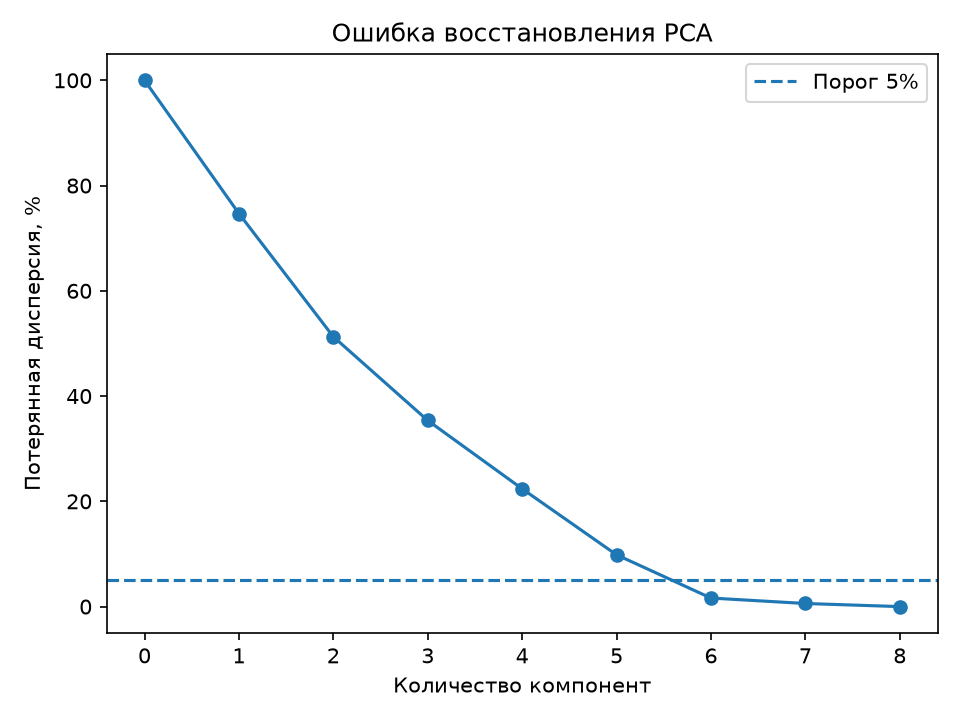
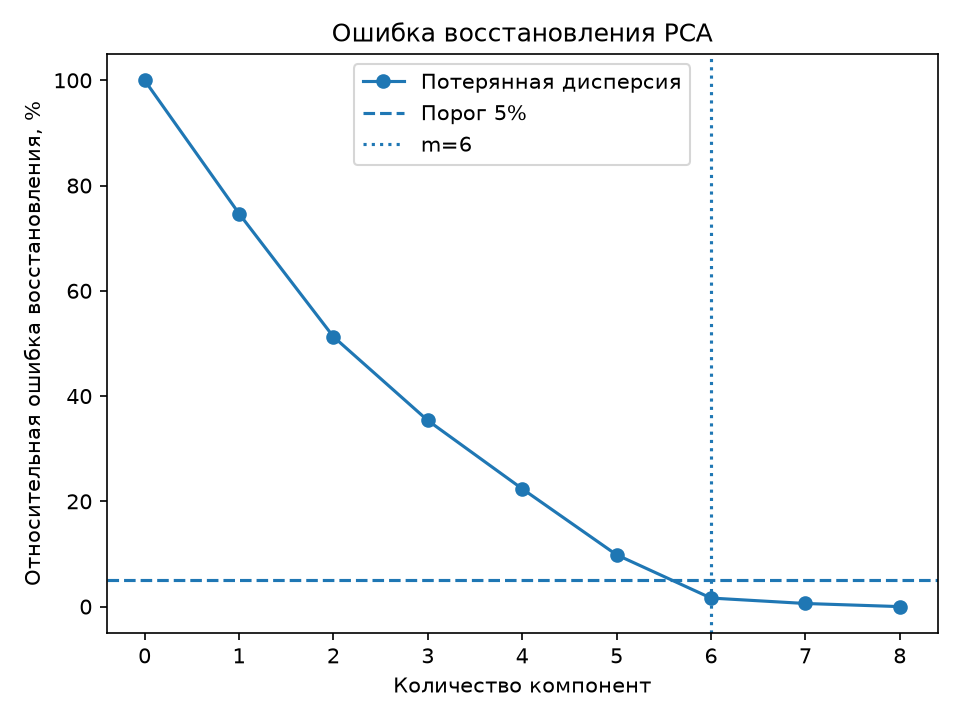
update files and code

diff --git a/students/astapenkova-av/lab4/source/laba-4.py b/students/astapenkova-av/lab4/source/laba-4.py
@@ -13,6 +13,7 @@ from sklearn.preprocessing import StandardScaler
 from pathlib import Path
 
 def effective_dimension(lam, eps=0.05):
+    lam = np.asarray(lam, dtype=float)
     total = np.sum(lam)
 
     for m in range(1, len(lam) + 1):
@@ -20,6 +21,7 @@ def effective_dimension(lam, eps=0.05):
 
         if Em <= eps:
             return m
+    return len(lam)
 
 def PCA(X, eps=0.05):
     mean = np.mean(X, axis=0)
@@ -27,7 +29,7 @@ def PCA(X, eps=0.05):
 
     _ , sigma, Ut = np.linalg.svd(F, full_matrices=False)
     U = Ut.T
-    lam = sigma ** 2
+    lam = sigma ** 2 
     explain_variance_ratio = lam / np.sum(lam)
     comulative_evr = np.cumsum(explain_variance_ratio)
     m = effective_dimension(lam, eps)
@@ -46,7 +48,6 @@ def ols_svd(X, y):
     w = Ut.T @ beta
     return w, float(y_mean - x_mean @ w)
 
-# w_tau = U diag(sigma/(sigma^2+tau)) V^T yс
 def ridge_svd_from_decomposition(V, sigma, Ut, yc, tau):
     beta = sigma / (sigma**2 + tau) * (V.T @ yc)
     return Ut.T @ beta
@@ -59,11 +60,6 @@ def ridge_svd(X, y, tau):
     V, sigma, Ut = np.linalg.svd(F, full_matrices=False)
     w = ridge_svd_from_decomposition(V, sigma, Ut, yc, tau)
     return w, float(y_mean - x_mean @ w)
-
-def save_current(out_dir, name):
-    plt.tight_layout()
-    plt.savefig(out_dir / f"{name}.png", dpi=160, bbox_inches="tight")
-    plt.close()
 
 def rmse(y, prediction):
     return np.sqrt(mean_squared_error(y, prediction))
@@ -90,30 +86,57 @@ def main():
     # PCA через SVD и эталонная реализация
     mean, U, sigma, explain_variance_ratio, comulative_evr, m = PCA(X_train)
     F = X_train - mean
-    G = F @ U[:, :m]
-    F_hat = G @ U[:, :m].T
+    U_m = U[:, :m]
+    G = F @ U_m
+    F_hat = G @ U_m.T
 
-    pca_ref = SklearnPCA(n_components=0.95, svd_solver="full")
-    G_ref = pca_ref.fit_transform(X_train)
-    F_ref = pca_ref.inverse_transform(G_ref)
+    lam = sigma ** 2
+    E_direct = np.linalg.norm(F - F_hat, "fro") ** 2 / np.linalg.norm(F, "fro") ** 2
+    E_svd = np.sum(lam[m:]) / np.sum(lam)
     print("Эффективная размерность:", m)
-    print("Размерность sklearn:", pca_ref.n_components_)
-    print("Восстановление совпадает:", np.allclose(F_hat + mean, F_ref))
+    print("Сохранённая дисперсия, %:", round(comulative_evr[m - 1] * 100, 4))
+    print("U^T U = I:", np.allclose(U_m.T @ U_m, np.eye(m)))
+    print("G^T G = diag(lambda):", np.allclose(G.T @ G, np.diag(lam[:m])))
+    print("Теоретическая ошибка восстановления совпадает:", np.allclose(E_direct, E_svd))
+
+    pca_ref = SklearnPCA(n_components=m, svd_solver="full")
+    G_ref = pca_ref.fit_transform(X_train)
+    X_ref = pca_ref.inverse_transform(G_ref)
+
+    print("Сингулярные значения совпадают:", np.allclose(
+        sigma[:m], pca_ref.singular_values_
+    ))
+    print("Доли дисперсии совпадают:", np.allclose(
+        explain_variance_ratio[:m], pca_ref.explained_variance_ratio_
+    ))
+    print("Собственные значения ковариации совпадают:", np.allclose(
+        lam[:m] / (len(X_train) - 1), pca_ref.explained_variance_
+    ))
+    P_own = U_m @ U_m.T
+    P_ref = pca_ref.components_.T @ pca_ref.components_
+    print("Подпространства совпадают:", np.allclose(P_own, P_ref))
+    print("Восстановление совпадает:", np.allclose(F_hat + mean, X_ref))
+
+    pca_ref_95 = SklearnPCA(n_components=0.95, svd_solver="full").fit(X_train)
+    print("Размерность sklearn при пороге 95%:", pca_ref_95.n_components_)
 
     indices = np.arange(1, len(sigma) + 1)
 
-    plt.plot(indices, sigma, marker="o")
+    plt.plot(indices, sigma, marker="o", label="Сингулярные значения")  
     plt.title("Сингулярные значения")
     plt.xlabel("Номер компоненты")
+    plt.ylabel("Сингулярное значение") 
+    plt.legend()  
     save("01_singular_values")
 
-    plt.bar(indices, explain_variance_ratio * 100)
+    plt.bar(indices, explain_variance_ratio * 100, label="Доля дисперсии") 
     plt.title("Дисперсия каждой компоненты")
     plt.xlabel("Номер компоненты")
     plt.ylabel("Доля дисперсии, %")
+    plt.legend()  
     save("02_explained_variance")
 
-    plt.plot(indices, comulative_evr * 100, marker="o")
+    plt.plot(indices, comulative_evr * 100, marker="o", label="Накопленная дисперсия")  
     plt.axhline(95, linestyle="--", label="95%")
     plt.axvline(m, linestyle=":", label=f"m={m}")
     plt.title("Накопленная объяснённая дисперсия")
@@ -123,37 +146,31 @@ def main():
     save("03_cumulative_variance")
 
     errors = 1 - np.r_[0, comulative_evr]
-    plt.plot(np.arange(len(errors)), errors * 100, marker="o")
+    plt.plot(np.arange(len(errors)), errors * 100, marker="o", label="Потерянная дисперсия") 
     plt.axhline(5, linestyle="--", label="Порог 5%")
+    plt.axvline(m, linestyle=":", label=f"m={m}")  
     plt.title("Ошибка восстановления PCA")
     plt.xlabel("Количество компонент")
-    plt.ylabel("Потерянная дисперсия, %")
+    plt.ylabel("Относительная ошибка восстановления, %")  
     plt.legend()
     save("04_reconstruction_error")
 
-    scores = F @ U
-    plt.scatter(scores[:, 0], scores[:, 1], c=y_train, s=5, alpha=0.3)
-    plt.colorbar(label="Стоимость жилья")
-    plt.xlabel("PC1")
-    plt.ylabel("PC2")
-    plt.title("Данные в пространстве первых двух компонент")
-    save("05_pc1_pc2")
-
-    plt.imshow(U, aspect="auto", vmin=-1, vmax=1)
+    im = plt.imshow(U, aspect="auto", vmin=-1, vmax=1)
     plt.xticks(range(len(names)), [f"PC{i}" for i in indices])
     plt.yticks(range(len(names)), names)
-    plt.colorbar(label="Вес исходного признака")
+    plt.xlabel("Главная компонента")  
+    plt.ylabel("Исходный признак") 
+    plt.colorbar(im, label="Вес исходного признака")  
     plt.title("Коэффициенты главных компонент")
     save("06_pca_weights")
 
-    # PCA + линейная регрессия: динамика качества при разных m
     pcr_train, pcr_test = [], []
     for k in indices:
         Z_train = F @ U[:, :k]
         Z_test = (X_test - mean) @ U[:, :k]
-        reg = LinearRegression().fit(Z_train, y_train)
-        pcr_train.append(rmse(y_train, reg.predict(Z_train)))
-        pcr_test.append(rmse(y_test, reg.predict(Z_test)))
+        w_k, b_k = ols_svd(Z_train, y_train)
+        pcr_train.append(rmse(y_train, Z_train @ w_k + b_k))
+        pcr_test.append(rmse(y_test, Z_test @ w_k + b_k))
 
     plt.plot(indices, pcr_train, marker="o", label="Обучение")
     plt.plot(indices, pcr_test, marker="o", label="Тест")
@@ -164,7 +181,6 @@ def main():
     plt.legend()
     save("07_pcr_rmse")
 
-    # Обычный МНК и Ridge через одно SVD
     y_mean = y_train.mean()
     V, s, Ut = np.linalg.svd(F, full_matrices=False)
     rhs = V.T @ (y_train - y_mean)
@@ -172,10 +188,9 @@ def main():
     def weights(tau):
         return Ut.T @ ((s / (s**2 + tau)) * rhs)
 
-    w_ols = weights(0)
     taus = np.logspace(-2, 5, 30)
     ridge_weights = np.array([weights(tau) for tau in taus])
-    tau = 1000.0  # Пример; не подобранный оптимум
+    tau = 1000.0 
     w_ridge = weights(tau)
 
     plt.figure(figsize=(9, 5))
@@ -188,7 +203,6 @@ def main():
     plt.legend(ncol=2, fontsize=8)
     save("08_ridge_weights")
 
-    # Lasso: коэффициенты и отбор признаков
     alphas = np.logspace(-4, 0, 30)
     lasso_weights = np.array([
         Lasso(alpha=a, max_iter=20000).fit(X_train, y_train).coef_
@@ -205,30 +219,37 @@ def main():
     plt.legend(ncol=2, fontsize=8)
     save("09_lasso_weights")
 
-    plt.plot(alphas, np.count_nonzero(lasso_weights, axis=1), marker="o")
-    plt.xscale("log")
+    plt.plot(alphas, np.count_nonzero(lasso_weights, axis=1), marker="o", label="Ненулевые коэффициенты") 
     plt.xlabel("Параметр Lasso (alpha)")
     plt.ylabel("Число ненулевых коэффициентов")
     plt.title("Отбор признаков Lasso")
+    plt.legend() 
     save("10_lasso_feature_selection")
 
-    # Финальное сравнение на тестовых данных (параметры фиксированы заранее)
+    w_ols, b_ols = ols_svd(X_train, y_train)
+    w_pcr, b_pcr = ols_svd(G, y_train)
     lasso = Lasso(alpha=0.01, max_iter=20000).fit(X_train, y_train)
-    pcr = LinearRegression().fit(G, y_train)
     results = {
-        "МНК SVD": X_test @ w_ols + y_mean - mean @ w_ols,
+        "МНК SVD": X_test @ w_ols + b_ols,
         "Ridge SVD": X_test @ w_ridge + y_mean - mean @ w_ridge,
         "Lasso": lasso.predict(X_test),
-        "PCA + МНК": pcr.predict((X_test - mean) @ U[:, :m]),
+        "PCA + МНК": (X_test - mean) @ U_m @ w_pcr + b_pcr,
     }
-    scores = {name: rmse(y_test, pred) for name, pred in results.items()}
-    for name, error in scores.items():
+    model_scores = {name: rmse(y_test, pred) for name, pred in results.items()}
+    for name, error in model_scores.items():
         print(f"{name}: RMSE = {error:.4f}")
 
-    plt.bar(scores.keys(), scores.values())
+    bars = plt.bar(model_scores.keys(), model_scores.values(),
+                   label="RMSE на тестовой выборке") 
+    for bar in bars:
+        value = bar.get_height()
+        plt.text(bar.get_x() + bar.get_width() / 2, value, f"{value:.3f}",
+                 ha="center", va="bottom")
     plt.ylabel("RMSE на тестовой выборке")
     plt.title("Сравнение моделей")
     plt.xticks(rotation=15)
+    plt.ylim(0, max(model_scores.values()) * 1.13)
+    plt.legend() 
     save("11_test_rmse")
 
 if __name__ == "__main__":

diff --git a/students/astapenkova-av/lab4/README.md b/students/astapenkova-av/lab4/README.md
@@ -6,13 +6,9 @@
 
 Реализовать метод главных компонент (PCA) с помощью сингулярного разложения, определить эффективную размерность выборки и сравнить собственную реализацию с эталонной реализацией из `sklearn`.
 
----
-
-### 1. Датасет
+### Датасет
 
 В работе используется датасет **fetch_california_housing** из библиотеки `sklearn.datasets` - содержит данные о недвижимости в штате Калифорнии. Перед началом работы я разделила данные на обучающую и тестовую выборк, стандартизировала признаки с помощью Standart scaler.
-
----
 
 ### Работа алгоритма 
 
@@ -21,8 +17,9 @@
 
 Несколько определений: 
 
-Объяснённая дисперсия j-й главной компоненты это доля общего разброса данных, которая приходится
-на эту компоненту: λⱼ / Σλ. Накопленная объяснённая дисперсия показывает, какую долю разброса
+- Объяснённая дисперсия j-й главной компоненты это доля общего разброса данных, которая приходится
+на эту компоненту: λⱼ / Σλ. 
+- Накопленная объяснённая дисперсия показывает, какую долю разброса
 сохраняют первые m компонент вместе.
 
 Что же у меня получилось..?
@@ -31,14 +28,13 @@
 
 ### Результаты
 
-Описывая результат, я буду сопровождать его графиками.
-
-
-![Сингулярные значения](images/01_singular_values.png)
-
+Описывая результат, я буду сопровождать его графиками. 
 Первый график показывает сингулярные значения σⱼ центрированной матрицы данных, упорядоченные
-по убыванию. Чем больше σⱼ, тем больше разброса данных лежит вдоль j-й главной компоненты
-(дисперсия λⱼ = σⱼ²).
+по убыванию.
+
+<img src="images/01_singular_values.png" alt="Сингулярные значения" width="600">
+
+Чем больше σⱼ, тем больше разброса данных лежит вдоль j-й главной компоненты (дисперсия λⱼ = σⱼ²).
 На графике видно, что первые шесть значений убывают плавно, то есть
 каждая из этих компонент несёт заметную часть информации. После шестой компоненты наблюдается
 резкий спад. Вдоль этих двух направлений данные почти не меняются, поэтому
@@ -46,14 +42,15 @@
 
 Далее рассмотрим долю объясненной дисперсии каждой компоненты:
 
-![Объясненная дисперсия](images/02_explained_variance.png)
+<img src="images/02_explained_variance.png" alt="Объясненная дисперсия" width="600">
+
 
 Наибольший разброс данных несут 1 и 2 главные компоненты.
 Меньше всего начиная от 6.
 
 Следующий график также очень интересен и это **накопленная объясненная дисперсия**:
 
-![Накопленная объясненная дисперсия](images/03_cumulative_variance.pnge.png)
+<img src="images/03_cumulative_variance.png" alt="Накопленная объясненная дисперсия" width="600">
 
 Горизонтальная пунктирная линия соответствует порогу 95%.
 Пять компонент объясняют около 90% дисперсии, что недостаточно, а шесть компонент уже около 98%, поэтому эффективная размерность выбрана равной m = 6 (вертикальная линия). Оставшиеся две
@@ -64,10 +61,11 @@
 
 <img src="images/04_reconstruction_error.png" alt="Ошибка восстановления PCA" width="600">
 
-Получается, что 5 компонентов дает потерю около 10 процентов, а вот уже 6 компонентов около 2. Если использовать 7 и 8, то данные начинают восстанавливаться.
+По графику заметно, что при использовании 5 главных компонент теряется около 10% дисперсии, а при использовании 6 компонент ошибка восстановления уменьшается примерно до 1,63%. Таким образом, 6 компонент достаточно, чтобы сохранить более 98% дисперсии исходных данных. Если же использовать 7 или 8 компонент, ошибка продолжает уменьшаться, а при 8 компонентах данные восстанавливаются практически без потерь.
 
+**Коэффициенты главных компонент**
 
-![Коэффициенты главных компонент](images/06_pca_weights.png)
+<img src="images/06_pca_weights.png" alt="Lasso отбор признаков" width="600">
 
 На графике коэффициент главных компонент показаны вклад каждого исходного признака
 в каждую компоненту. Первая компонента в основном определяется географическими признаками
@@ -89,41 +87,48 @@
   </tr>
 </table>
 
-На графике Ridge видно, что при увеличении параметра (\tau) коэффициенты модели постепенно уменьшаются по абсолютной величине. Наиболее выраженные коэффициенты наблюдаются у медианного дохода (MedInc), а также географических признаков Latitude и Longitude. Регуляризация ограничивает их величину, что может повысить устойчивость модели при наличии коррелированных признаков.
+На графике Ridge видно, что при увеличении параметра tau коэффициенты модели постепенно уменьшаются по абсолютной величине. Наиболее выраженные коэффициенты наблюдаются у медианного дохода (MedInc), а также географических признаков Latitude и Longitude. Регуляризация ограничивает их величину, что может повысить устойчивость модели при наличии коррелированных признаков.
 
-На графике Lasso видно, что при увеличении параметра (\alpha) некоторые коэффициенты становятся равными нулю. Это позволяет модели автоматически исключать часть исходных признаков, сохраняя только признаки с ненулевыми коэффициентами при выбранной силе регуляризации.
+На графике Lasso видно, что при увеличении параметра alpha некоторые коэффициенты становятся равными нулю. Это позволяет модели автоматически исключать часть исходных признаков, сохраняя только признаки с ненулевыми коэффициентами при выбранной силе регуляризации.
 
-Рассмотрим, как Lasso постепенно исключает признаки из модели регрессии при увеличении параметра регуляризации \(\alpha\):
+Рассмотрим, как Lasso постепенно исключает признаки из модели регрессии при увеличении параметра регуляризации (alpha):
 
 <img src="images/10_lasso_feature_selection.png" alt="Lasso отбор признаков" width="600">
 
-При небольших значениях (\alpha) модель использует все восемь исходных признаков. По мере увеличения параметра регуляризации число ненулевых коэффициентов постепенно уменьшается, поскольку Lasso обнуляет некоторые из них.
+При небольших значениях **alpha** модель использует все восемь исходных признаков. По мере увеличения параметра регуляризации чсло ненулевых коэффициентов постепенно уменьшается, поскольку Lasso обнуляет некоторые из них.
 
 ***Важный график***
 
 <img src="images/07_pcr_rmse.png" alt="Lasso отбор признаков" width="600">
 
-По этому графики заметно вот что, хоть у нас и сокращается размерность признаков и как будто ошибка должна уменьшаться, но если мы добавляем 7 и 8 признаки, то качество начинает расти. PCA не учитывает целевую переменную при выборе направлений, поэтому даже компоненты с небольшой объяснённой дисперсией могут содержать информацию, важную для предсказания. 
-Кроме того, близость ошибок на обучающей и тестовой выборках указывает на отсутствие выраженного разрыва между качеством обучения и обобщения в данном эксперименте.
+По этому графику заметно, что при использовании первых трёх главных компонент ошибка достаточно высокая, но при добавлении четвёртой компоненты она резко уменьшается. При этом я определила эффективную размерность как 6 компонент, поскольку они сохраняют не менее 95% дисперсии исходных данных. Однако, если добавляем 7 и 8 компоненты, ошибка продолжает уменьшаться, то есть качество предсказания становится лучше. Это связано с тем, что PCA не учитывает целевую переменную при выборе главных компонент, поэтому даже компоненты с небольшой объяснённой дисперсией могут содержать важную информацию для предсказания. Кроме того, ошибки на обучающей и тестовой выборках достаточно близки, поэтому можно сказать, что выраженного переобучения по этому графику не наблюдается.
 
 ----
 
 ### Выводы
 
+В результате получилось, что эффективная размерность равна 6 компонентам и сохраняется 98,3748% дисперсии исходных данных. Таким образом, получилось сократить количество признаков с 8 до 6, потеряв только около 1,63% дисперсии.
+
+Я сверила  PCA с эталонной реализацией из sklearn. Все проверки показали True: совпали сингулярные значения, доли объяснённой дисперсии, собственные значения ковариационной матрицы, подпространства главных компонент и восстановленные данные. Кроме того, были подтверждены ортонормированность матрицы U, ортогональность главных компонент и теоретическая формула ошибки восстановления. Это позволяет сделать вывод, что собственная реализация PCA работает корректно и эквивалентна эталонной.
+
 Для оценки влияния снижения размерности и регуляризации на качество предсказания стоимости жилья были сравнены четыре модели:
 
-МНК через SVD: RMSE = 0,7456.
+- МНК через SVD: RMSE = 0,7456.
 
-Ridge через SVD: RMSE = 0,7523.
+- Ridge через SVD: RMSE = 0,7523.
 
-Lasso: RMSE = 0,7404.
+- Lasso: RMSE = 0,7404.
 
-PCA + МНК: RMSE = 0,8194.
+- PCA + МНК: RMSE = 0,8194.
 
-Наименьшую ошибку на тестовой выборке показала Lasso-регрессия (RMSE = 0,7404). (L_1)-штраф позволил получить немного более точные предсказания по сравнению с обычным МНК.
+Наименьшую ошибку на тестовой выборке показала Lasso-регрессия (RMSE = 0,7404). Можно заметить, что она немного лучше обычного МНК, хотя разница между ними небольшая. В данном эксперименте использование L1-регуляризации показало более точные предсказания.
 
-Ridge-регрессия показала RMSE = 0,7523, что немного выше результата МНК. Это может быть связано с выбранной силой регуляризации (\tau=1000), которая не подбиралась как оптимальная.
+Ridge-регрессия показала немного худший результат по сравнению с МНК (RMSE = 0,7523). Это может быть связано с выбранным параметром регуляризации tau=1000, потому что я не подбирала его.
 
-Наибольшая ошибка получена для PCA + МНК (RMSE = 0,8194). Несмотря на сохранение более 95% дисперсии исходных признаков, уменьшение размерности с 8 до 6 компонент привело к ухудшению качества предсказания. Это объясняется тем, что PCA выбирает направления максимальной дисперсии без учёта целевой переменной, поэтому отброшенные компоненты могут содержать полезную для регрессии информацию.
+Наибольшая ошибка получилась у модели PCA + МНК (RMSE = 0,8194). Хотя сохранилась более 98% дисперсии исходных данных, уменьшение размерности с 8 до 6 компонент привело к ухудшению качества предсказания. Это связано с тем, что PCA не учитывает целевую переменную при выборе главных компонент, поэтому даже компоненты с небольшой объяснённой дисперсией могут содержать полезную информацию для регрессии.
+
+Вывод: PCA  сократил размерность данных практически без потери дисперсии, но это не привело к улучшению качества предсказания. В  задаче использование всех 8 компонент оказалось более эффективным для линейной регрессии, а среди рассмотренных моделей наименьшую ошибку показала Lasso. 
+
+Также ошибка восстановления собственной реализации PCA через SVD практически полностью совпадает с ошибкой эталонной реализации из sklearn при любом количестве главных компонент. При использовании 6 компонент ошибка составляет около 1,63%, что соответствует сохранению 98,37% дисперсии исходных данных.
 
 <img src="images/11_test_rmse.png" alt="Ошибка восстановления PCA" width="600">
